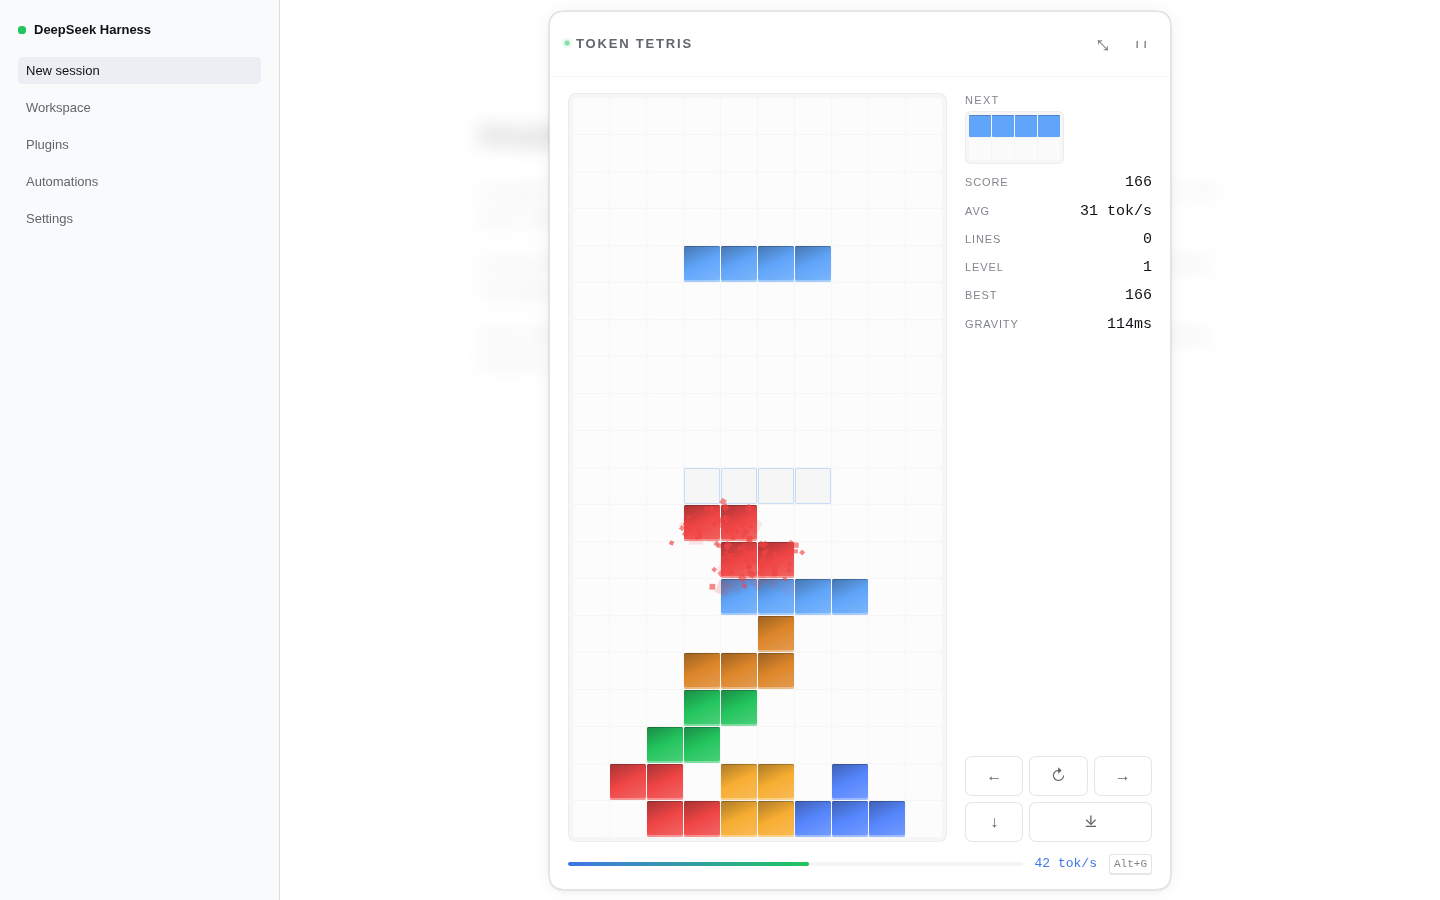
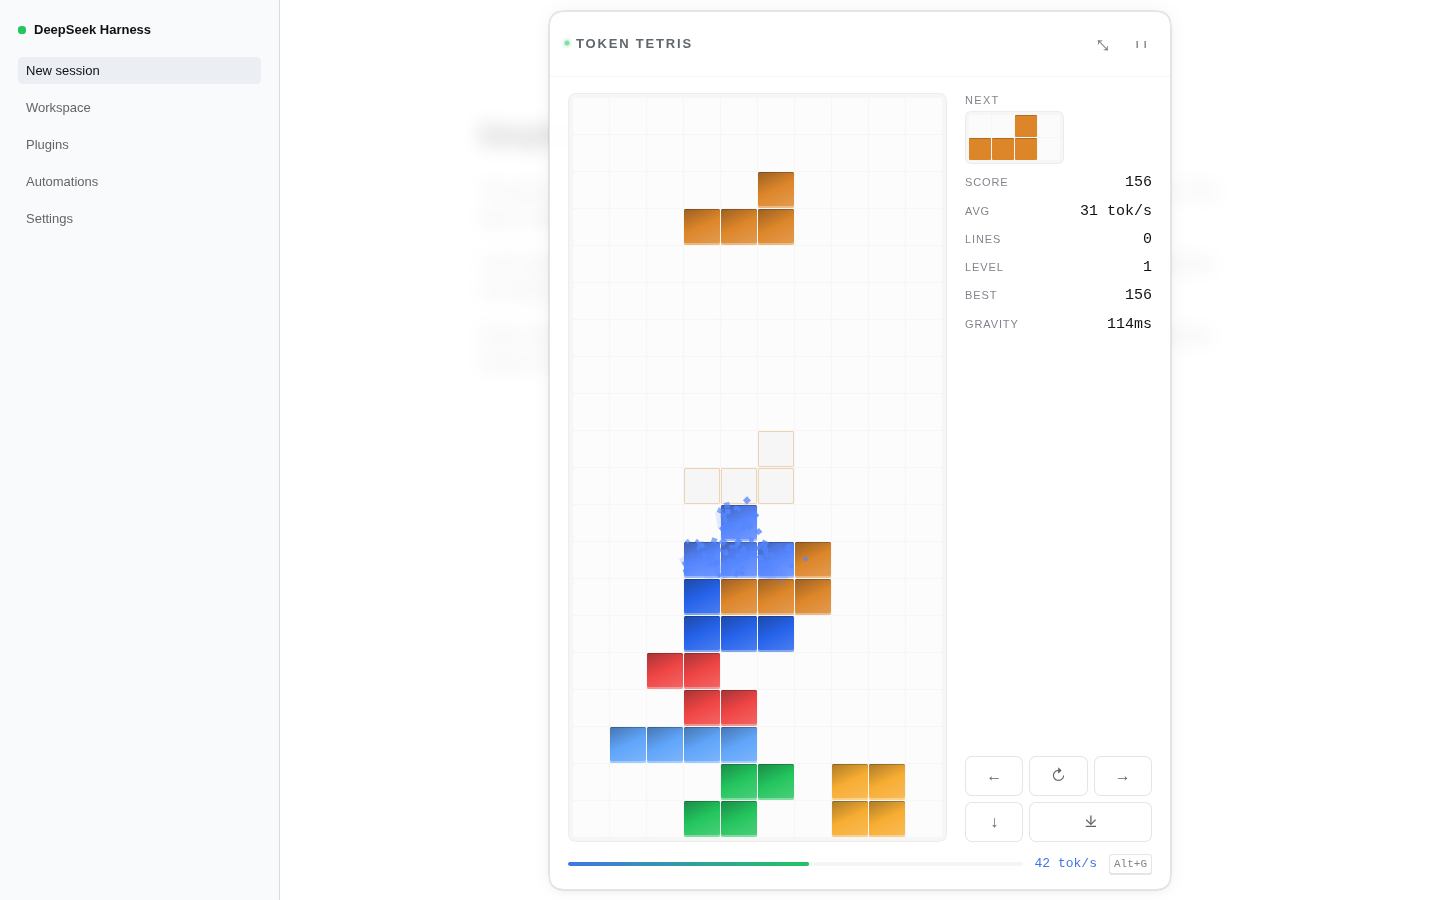
fix: use mouse events and a larger drag handle

Changed region(s): [[0.4062, 0.5289, 0.6562, 0.9333], [0.4688, 0.1867, 0.5938, 0.3111], [0.6562, 0.1244, 0.75, 0.1867]]

diff --git a/lib/client.js b/lib/client.js
@@ -1268,7 +1268,7 @@
           ...currentPosition === null ? {} : { x: currentPosition.x, y: currentPosition.y }
         });
       };
-      const onHeaderPointerDown = (event) => {
+      const onHeaderMouseDown = (event) => {
         if (fullscreenRef.current || event.button !== 0 || dragCleanupRef.current !== null)
           return;
         const target = event.target;
@@ -1278,22 +1278,18 @@
         if (root === null)
           return;
         const rect = root.getBoundingClientRect();
-        const pointerId = event.pointerId;
         const startX = event.clientX;
         const startY = event.clientY;
         const startLeft = rect.left;
         const startTop = rect.top;
         const onMove = (moveEvent) => {
-          if (moveEvent.pointerId !== pointerId)
-            return;
           const next = clampPosition(startLeft + moveEvent.clientX - startX, startTop + moveEvent.clientY - startY, cellRef.current, viewportRef.current);
           positionRef.current = next;
           setPosition(next);
         };
         const cleanup = () => {
-          window.removeEventListener("pointermove", onMove, true);
-          window.removeEventListener("pointerup", onUp, true);
-          window.removeEventListener("pointercancel", onUp, true);
+          window.removeEventListener("mousemove", onMove, true);
+          window.removeEventListener("mouseup", onUp, true);
           window.removeEventListener("blur", onBlur);
           dragCleanupRef.current = null;
         };
@@ -1302,44 +1298,37 @@
           setDragging(false);
           persistLayout();
         };
-        const onUp = (upEvent) => {
-          if (upEvent.pointerId !== pointerId)
-            return;
+        const onUp = () => {
           finish();
         };
         const onBlur = () => {
           finish();
         };
         dragCleanupRef.current = cleanup;
-        window.addEventListener("pointermove", onMove, true);
-        window.addEventListener("pointerup", onUp, true);
-        window.addEventListener("pointercancel", onUp, true);
+        window.addEventListener("mousemove", onMove, true);
+        window.addEventListener("mouseup", onUp, true);
         window.addEventListener("blur", onBlur);
         event.preventDefault();
         setDragging(true);
         panelRef.current?.focus({ preventScroll: true });
       };
-      const onResizePointerDown = (event) => {
+      const onResizeMouseDown = (event) => {
         if (fullscreenRef.current || event.button !== 0 || resizeCleanupRef.current !== null)
           return;
         event.preventDefault();
         event.stopPropagation();
-        const pointerId = event.pointerId;
         const startX = event.clientX;
         const startY = event.clientY;
         const startCell = cellRef.current;
         const onMove = (moveEvent) => {
-          if (moveEvent.pointerId !== pointerId)
-            return;
           const delta = ((moveEvent.clientX - startX) / 10 + (moveEvent.clientY - startY) / 20) / 2;
           const next = clampCell(Math.round(startCell + delta), viewportRef.current);
           cellRef.current = next;
           setCell(next);
         };
         const cleanup = () => {
-          window.removeEventListener("pointermove", onMove, true);
-          window.removeEventListener("pointerup", onUp, true);
-          window.removeEventListener("pointercancel", onUp, true);
+          window.removeEventListener("mousemove", onMove, true);
+          window.removeEventListener("mouseup", onUp, true);
           window.removeEventListener("blur", onBlur);
           resizeCleanupRef.current = null;
         };
@@ -1354,18 +1343,15 @@
           }
           persistLayout();
         };
-        const onUp = (upEvent) => {
-          if (upEvent.pointerId !== pointerId)
-            return;
+        const onUp = () => {
           finish();
         };
         const onBlur = () => {
           finish();
         };
         resizeCleanupRef.current = cleanup;
-        window.addEventListener("pointermove", onMove, true);
-        window.addEventListener("pointerup", onUp, true);
-        window.addEventListener("pointercancel", onUp, true);
+        window.addEventListener("mousemove", onMove, true);
+        window.addEventListener("mouseup", onUp, true);
         window.addEventListener("blur", onBlur);
         setResizing(true);
       };
@@ -1395,12 +1381,13 @@
           children: [
             /* @__PURE__ */ jsx_runtime.jsxs("header", {
               className: "tt-head",
-              title: fullscreen ? undefined : t("aria.drag"),
-              onPointerDown: onHeaderPointerDown,
+              title: fullscreen ? t("aria.dragFullscreen") : t("aria.drag"),
+              onMouseDown: onHeaderMouseDown,
               children: [
                 /* @__PURE__ */ jsx_runtime.jsx("span", {
                   className: "tt-grip",
                   "aria-hidden": "true",
+                  title: fullscreen ? t("aria.dragFullscreen") : t("aria.drag"),
                   children: "⠿"
                 }),
                 /* @__PURE__ */ jsx_runtime.jsxs("span", {
@@ -1645,7 +1632,7 @@
               role: "separator",
               "aria-label": t("aria.resize"),
               title: t("aria.resize"),
-              onPointerDown: onResizePointerDown
+              onMouseDown: onResizeMouseDown
             })
           ]
         })
@@ -1705,6 +1692,7 @@
       "aria.fullscreen": "Enter fullscreen",
       "aria.exitFullscreen": "Exit fullscreen",
       "aria.drag": "Drag to move",
+      "aria.dragFullscreen": "Exit fullscreen to move or resize",
       "aria.resize": "Resize game",
       "aria.resume": "Resume game",
       "aria.restart": "Restart game",
@@ -1833,17 +1821,29 @@
     
     .tt-grip {
       flex: 0 0 auto;
-      padding: 0 1px;
+      display: inline-flex;
+      align-items: center;
+      justify-content: center;
+      width: 20px;
+      height: 20px;
+      border: 1px solid transparent;
+      border-radius: 5px;
       color: var(--dsw-alias-label-tertiary);
-      font-size: 12px;
+      font-size: 13px;
       line-height: 1;
-      letter-spacing: -2px;
+      letter-spacing: 0;
       opacity: 0.9;
-      cursor: inherit;
+      cursor: grab;
+    }
+    
+    .tt-grip:hover {
+      color: var(--dsw-alias-label-secondary);
+      background: var(--dsw-alias-interactive-bg-hover);
     }
     
     .tt-head:hover .tt-grip {
       color: var(--dsw-alias-label-secondary);
+      border-color: var(--dsw-alias-border-l2);
     }
     
     .tt-live {
@@ -2289,6 +2289,12 @@
     
     .tt-root[data-dragging='true'] .tt-head {
       cursor: grabbing;
+    }
+    
+    .tt-root[data-dragging='true'] .tt-grip {
+      color: var(--dsw-alias-state-business-primary);
+      background: var(--dsw-alias-interactive-bg-hover);
+      border-color: var(--dsw-alias-state-business-primary);
     }
     
     .tt-resize {

diff --git a/src/client/TokenTetrisOverlay.tsx b/src/client/TokenTetrisOverlay.tsx
@@ -962,20 +962,18 @@ function TetrisGame({ t, tokensPerSecond }: TetrisGameProps) {
     })
   }
 
-  const onHeaderPointerDown = (event: PointerEvent<HTMLElement>): void => {
+  const onHeaderMouseDown = (event: MouseEvent<HTMLElement>): void => {
     if (fullscreenRef.current || event.button !== 0 || dragCleanupRef.current !== null) return
     const target = event.target
     if (target instanceof HTMLElement && target.closest('button') !== null) return
     const root = rootRef.current
     if (root === null) return
     const rect = root.getBoundingClientRect()
-    const pointerId = event.pointerId
     const startX = event.clientX
     const startY = event.clientY
     const startLeft = rect.left
     const startTop = rect.top
-    const onMove = (moveEvent: PointerEvent): void => {
-      if (moveEvent.pointerId !== pointerId) return
+    const onMove = (moveEvent: MouseEvent): void => {
       const next = clampPosition(
         startLeft + moveEvent.clientX - startX,
         startTop + moveEvent.clientY - startY,
@@ -986,9 +984,8 @@ function TetrisGame({ t, tokensPerSecond }: TetrisGameProps) {
       setPosition(next)
     }
     const cleanup = (): void => {
-      window.removeEventListener('pointermove', onMove, true)
-      window.removeEventListener('pointerup', onUp, true)
-      window.removeEventListener('pointercancel', onUp, true)
+      window.removeEventListener('mousemove', onMove, true)
+      window.removeEventListener('mouseup', onUp, true)
       window.removeEventListener('blur', onBlur)
       dragCleanupRef.current = null
     }
@@ -997,42 +994,37 @@ function TetrisGame({ t, tokensPerSecond }: TetrisGameProps) {
       setDragging(false)
       persistLayout()
     }
-    const onUp = (upEvent: PointerEvent): void => {
-      if (upEvent.pointerId !== pointerId) return
+    const onUp = (): void => {
       finish()
     }
     const onBlur = (): void => {
       finish()
     }
     dragCleanupRef.current = cleanup
-    window.addEventListener('pointermove', onMove, true)
-    window.addEventListener('pointerup', onUp, true)
-    window.addEventListener('pointercancel', onUp, true)
+    window.addEventListener('mousemove', onMove, true)
+    window.addEventListener('mouseup', onUp, true)
     window.addEventListener('blur', onBlur)
     event.preventDefault()
     setDragging(true)
     panelRef.current?.focus({ preventScroll: true })
   }
 
-  const onResizePointerDown = (event: PointerEvent<HTMLDivElement>): void => {
+  const onResizeMouseDown = (event: MouseEvent<HTMLDivElement>): void => {
     if (fullscreenRef.current || event.button !== 0 || resizeCleanupRef.current !== null) return
     event.preventDefault()
     event.stopPropagation()
-    const pointerId = event.pointerId
     const startX = event.clientX
     const startY = event.clientY
     const startCell = cellRef.current
-    const onMove = (moveEvent: PointerEvent): void => {
-      if (moveEvent.pointerId !== pointerId) return
+    const onMove = (moveEvent: MouseEvent): void => {
       const delta = ((moveEvent.clientX - startX) / 10 + (moveEvent.clientY - startY) / 20) / 2
       const next = clampCell(Math.round(startCell + delta), viewportRef.current)
       cellRef.current = next
       setCell(next)
     }
     const cleanup = (): void => {
-      window.removeEventListener('pointermove', onMove, true)
-      window.removeEventListener('pointerup', onUp, true)
-      window.removeEventListener('pointercancel', onUp, true)
+      window.removeEventListener('mousemove', onMove, true)
+      window.removeEventListener('mouseup', onUp, true)
       window.removeEventListener('blur', onBlur)
       resizeCleanupRef.current = null
     }
@@ -1052,17 +1044,15 @@ function TetrisGame({ t, tokensPerSecond }: TetrisGameProps) {
       }
       persistLayout()
     }
-    const onUp = (upEvent: PointerEvent): void => {
-      if (upEvent.pointerId !== pointerId) return
+    const onUp = (): void => {
       finish()
     }
     const onBlur = (): void => {
       finish()
     }
     resizeCleanupRef.current = cleanup
-    window.addEventListener('pointermove', onMove, true)
-    window.addEventListener('pointerup', onUp, true)
-    window.addEventListener('pointercancel', onUp, true)
+    window.addEventListener('mousemove', onMove, true)
+    window.addEventListener('mouseup', onUp, true)
     window.addEventListener('blur', onBlur)
     setResizing(true)
   }
@@ -1096,10 +1086,14 @@ function TetrisGame({ t, tokensPerSecond }: TetrisGameProps) {
       >
         <header
           className="tt-head"
-          title={fullscreen ? undefined : t('aria.drag')}
-          onPointerDown={onHeaderPointerDown}
+          title={fullscreen ? t('aria.dragFullscreen') : t('aria.drag')}
+          onMouseDown={onHeaderMouseDown}
         >
-          <span className="tt-grip" aria-hidden="true">
+          <span
+            className="tt-grip"
+            aria-hidden="true"
+            title={fullscreen ? t('aria.dragFullscreen') : t('aria.drag')}
+          >
             ⠿
           </span>
           <span className="tt-live">
@@ -1279,7 +1273,7 @@ function TetrisGame({ t, tokensPerSecond }: TetrisGameProps) {
           role="separator"
           aria-label={t('aria.resize')}
           title={t('aria.resize')}
-          onPointerDown={onResizePointerDown}
+          onMouseDown={onResizeMouseDown}
         />
       </section>
     </div>

diff --git a/src/client/styles.ts b/src/client/styles.ts
@@ -75,17 +75,29 @@ body[data-ds-dark-theme] .tt-panel {
 
 .tt-grip {
   flex: 0 0 auto;
-  padding: 0 1px;
+  display: inline-flex;
+  align-items: center;
+  justify-content: center;
+  width: 20px;
+  height: 20px;
+  border: 1px solid transparent;
+  border-radius: 5px;
   color: var(--dsw-alias-label-tertiary);
-  font-size: 12px;
+  font-size: 13px;
   line-height: 1;
-  letter-spacing: -2px;
+  letter-spacing: 0;
   opacity: 0.9;
-  cursor: inherit;
+  cursor: grab;
+}
+
+.tt-grip:hover {
+  color: var(--dsw-alias-label-secondary);
+  background: var(--dsw-alias-interactive-bg-hover);
 }
 
 .tt-head:hover .tt-grip {
   color: var(--dsw-alias-label-secondary);
+  border-color: var(--dsw-alias-border-l2);
 }
 
 .tt-live {
@@ -531,6 +543,12 @@ body[data-ds-dark-theme] .tt-panel {
 
 .tt-root[data-dragging='true'] .tt-head {
   cursor: grabbing;
+}
+
+.tt-root[data-dragging='true'] .tt-grip {
+  color: var(--dsw-alias-state-business-primary);
+  background: var(--dsw-alias-interactive-bg-hover);
+  border-color: var(--dsw-alias-state-business-primary);
 }
 
 .tt-resize {

diff --git a/src/client/locale.ts b/src/client/locale.ts
@@ -37,6 +37,7 @@ export const EN: Record<string, string> = {
   'aria.fullscreen': 'Enter fullscreen',
   'aria.exitFullscreen': 'Exit fullscreen',
   'aria.drag': 'Drag to move',
+  'aria.dragFullscreen': 'Exit fullscreen to move or resize',
   'aria.resize': 'Resize game',
   'aria.resume': 'Resume game',
   'aria.restart': 'Restart game',

diff --git a/README.md b/README.md
@@ -41,7 +41,7 @@
 ```bash
 dsh plugin --profile web add dsh-plugin-token-tetris
 # 或者：npm pack 后安装本地 tarball
-dsh plugin --profile web add ./dsh-plugin-token-tetris-0.1.6.tgz
+dsh plugin --profile web add ./dsh-plugin-token-tetris-0.1.7.tgz
 # 或者：从源码目录 link
 dsh plugin --profile web add /home/stone/Web/dsh-tetris-plugin
 ```
